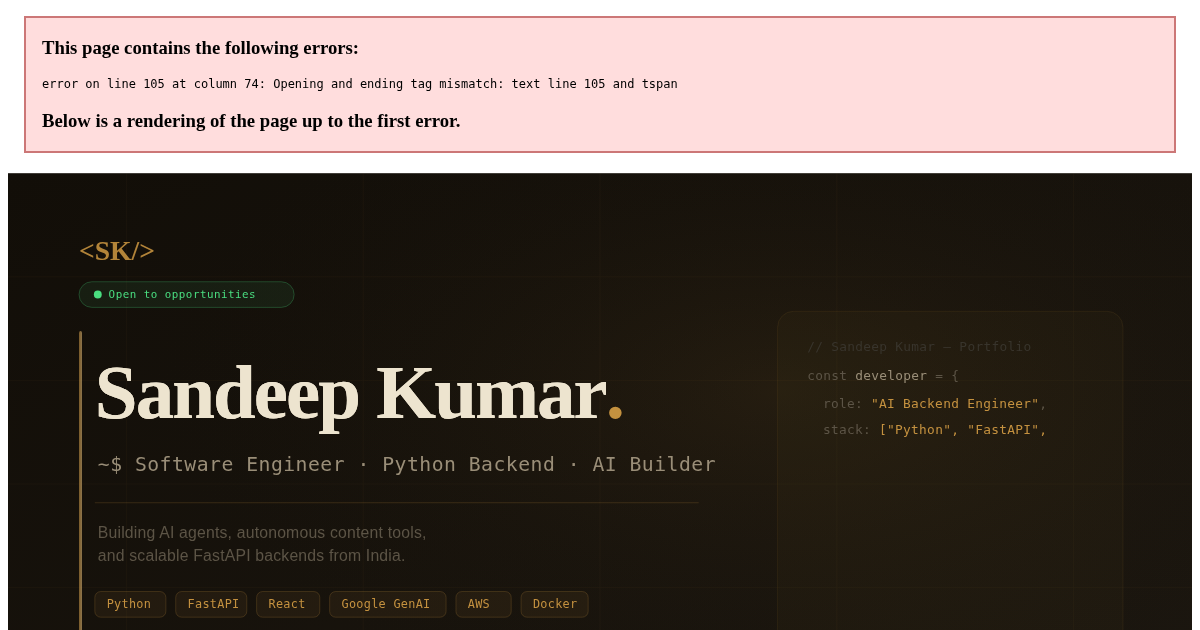
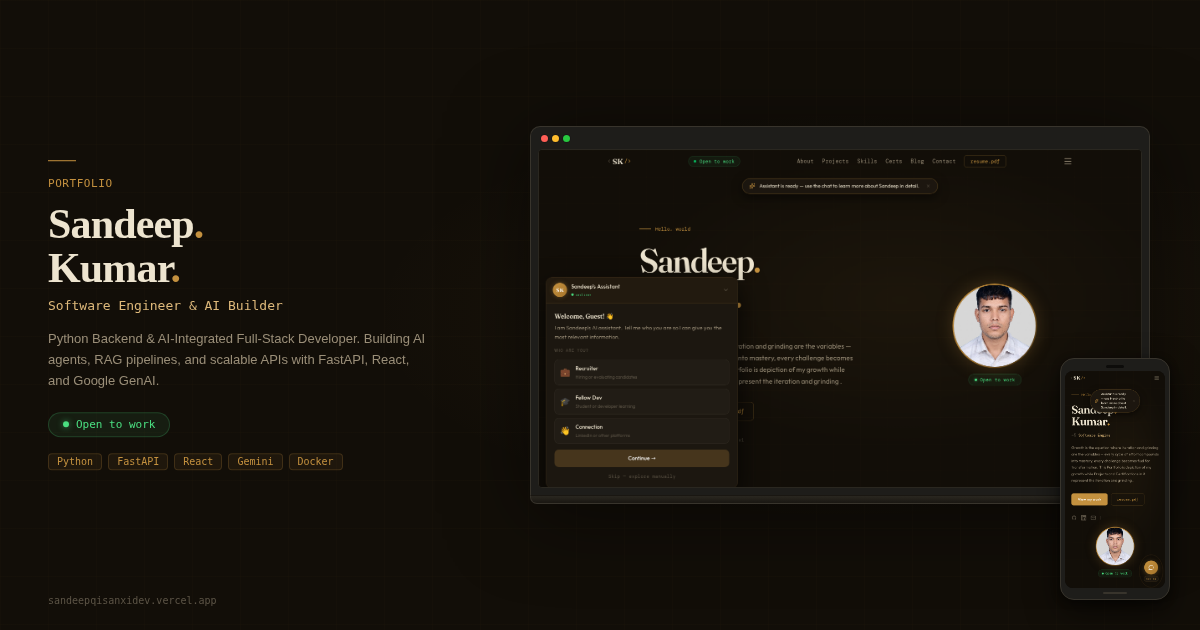
feat: new OG image with desktop + mobile device mockups
Replaced the SVG-based OG image with a composite PNG showing the
portfolio in a macOS laptop frame + iPhone phone frame — similar to
the device mockups used in the Projects section.

The new OG image (1200×630, 153 KB) contains:
  LEFT COLUMN (text):
  - 'PORTFOLIO' label in amber accent
  - 'Sandeep. Kumar.' in Fraunces serif (42px)
  - 'Software Engineer & AI Builder' in DM Mono
  - One-line description about AI-integrated full-stack dev
  - Green 'Open to work' availability badge
  - Tech tag pills: Python · FastAPI · React · Gemini · Docker
  - URL: sandeepqisanxidev.vercel.app

  RIGHT COLUMN (device mockups):
  - macOS laptop frame (traffic lights, bezel, hinge) containing
    a live desktop screenshot of the portfolio at 1440×900
  - iPhone phone frame (notch, home bar) containing a live mobile
    screenshot at 375×812, positioned overlapping the laptop's
    bottom-right corner

Generated via Playwright: captured live screenshots from
sandeepqisanxidev.vercel.app at desktop + mobile viewports, then
composed them into the device frames in a 1200×630 HTML canvas,
then screenshotted that canvas as the final PNG.

Also added og-image.html as the source template for regenerating
the PNG if the portfolio design changes.

Files: 2 changed (og-image.png replaced, og-image.html added).

diff --git a/frontend/public/og-image.html b/frontend/public/og-image.html
@@ -1,0 +1,310 @@
+<!DOCTYPE html>
+<html lang="en">
+<head>
+<meta charset="UTF-8">
+<style>
+  @import url('https://fonts.googleapis.com/css2?family=Fraunces:opsz,wght@9..144,500;9..144,600;9..144,700&family=Outfit:wght@400;500;600&family=DM+Mono:wght@400;500&display=swap');
+
+  * { margin: 0; padding: 0; box-sizing: border-box; }
+
+  body {
+    width: 1200px;
+    height: 630px;
+    overflow: hidden;
+    background: #120E08;
+    font-family: 'Outfit', sans-serif;
+    color: #EDE4CF;
+    position: relative;
+  }
+
+  /* Background glow + grid */
+  .bg-glow {
+    position: absolute;
+    inset: 0;
+    background-image:
+      radial-gradient(ellipse 60% 50% at 70% 50%, rgba(196,145,63,0.08) 0%, transparent 65%),
+      linear-gradient(rgba(196,145,63,0.015) 1px, transparent 1px),
+      linear-gradient(90deg, rgba(196,145,63,0.015) 1px, transparent 1px);
+    background-size: auto, 48px 48px, 48px 48px;
+    pointer-events: none;
+  }
+
+  /* Left text column */
+  .text-col {
+    position: absolute;
+    left: 48px;
+    top: 50%;
+    transform: translateY(-50%);
+    width: 380px;
+    z-index: 10;
+  }
+
+  .accent-line {
+    width: 28px;
+    height: 1px;
+    background: #C4913F;
+    margin-bottom: 16px;
+  }
+
+  .label {
+    font-family: 'DM Mono', monospace;
+    font-size: 11px;
+    color: #C4913F;
+    margin-bottom: 12px;
+    letter-spacing: 0.05em;
+  }
+
+  .name {
+    font-family: 'Fraunces', serif;
+    font-size: 42px;
+    font-weight: 600;
+    color: #EDE4CF;
+    line-height: 1.05;
+    letter-spacing: -0.02em;
+    margin-bottom: 8px;
+  }
+
+  .name span { color: #C4913F; }
+
+  .role {
+    font-family: 'DM Mono', monospace;
+    font-size: 13px;
+    color: #DDB87A;
+    margin-bottom: 16px;
+  }
+
+  .desc {
+    font-size: 13px;
+    color: #9A8E78;
+    line-height: 1.6;
+    margin-bottom: 20px;
+  }
+
+  .availability {
+    display: inline-flex;
+    align-items: center;
+    gap: 7px;
+    padding: 5px 14px;
+    border-radius: 20px;
+    background: rgba(74,222,128,0.08);
+    border: 1px solid rgba(74,222,128,0.2);
+  }
+
+  .availability .dot {
+    width: 6px;
+    height: 6px;
+    border-radius: 50%;
+    background: #4ade80;
+    box-shadow: 0 0 6px rgba(74,222,128,0.6);
+  }
+
+  .availability .text {
+    font-family: 'DM Mono', monospace;
+    font-size: 11px;
+    color: #4ade80;
+  }
+
+  .tech-tags {
+    display: flex;
+    flex-wrap: wrap;
+    gap: 6px;
+    margin-top: 16px;
+  }
+
+  .tag {
+    font-family: 'DM Mono', monospace;
+    font-size: 10px;
+    color: #C4913F;
+    background: rgba(196,145,63,0.08);
+    border: 1px solid rgba(196,145,63,0.2);
+    border-radius: 4px;
+    padding: 2px 8px;
+  }
+
+  .url {
+    position: absolute;
+    bottom: 24px;
+    left: 48px;
+    font-family: 'DM Mono', monospace;
+    font-size: 10px;
+    color: #5C5446;
+  }
+
+  /* Right device mockup area */
+  .devices {
+    position: absolute;
+    right: 0;
+    top: 0;
+    width: 720px;
+    height: 630px;
+    display: flex;
+    align-items: center;
+    justify-content: center;
+  }
+
+  /* Laptop frame */
+  .laptop {
+    width: 620px;
+    position: relative;
+    z-index: 5;
+    filter: drop-shadow(0 10px 40px rgba(0,0,0,0.5));
+  }
+
+  .laptop-screen-body {
+    background: #1E1D1A;
+    border-radius: 10px 10px 0 0;
+    padding: 22px 7px 7px;
+    border: 1.5px solid #38342C;
+    border-bottom: none;
+    position: relative;
+  }
+
+  .traffic-lights {
+    position: absolute;
+    top: 8px;
+    left: 10px;
+    display: flex;
+    gap: 4px;
+  }
+
+  .traffic-lights div {
+    width: 7px;
+    height: 7px;
+    border-radius: 50%;
+    box-shadow: 0 0 0 0.5px rgba(0,0,0,0.3);
+  }
+
+  .traffic-lights .red { background: #FF5F57; }
+  .traffic-lights .yellow { background: #FFBD2E; }
+  .traffic-lights .green { background: #28C840; }
+
+  .laptop-screen {
+    background: #0D0C0A;
+    border-radius: 4px;
+    overflow: hidden;
+    border: 1px solid #2A2720;
+    aspect-ratio: 16/9;
+  }
+
+  .laptop-screen img {
+    width: 100%;
+    height: 100%;
+    object-fit: cover;
+    object-position: top;
+  }
+
+  .laptop-base {
+    height: 9px;
+    background: linear-gradient(180deg, #2A2720 0%, #1A1712 100%);
+    border-radius: 0 0 7px 7px;
+    border: 1.5px solid #38342C;
+    border-top: 1px solid #1A1712;
+  }
+
+  /* Phone frame */
+  .phone {
+    position: absolute;
+    right: 30px;
+    bottom: 30px;
+    width: 110px;
+    background: #1E1D1A;
+    border-radius: 14px;
+    padding: 12px 4px 5px;
+    border: 1.5px solid #38342C;
+    box-shadow: 0 12px 32px rgba(0,0,0,0.55), 0 2px 8px rgba(0,0,0,0.4);
+    z-index: 10;
+  }
+
+  .phone-notch {
+    position: absolute;
+    top: 6px;
+    left: 50%;
+    transform: translateX(-50%);
+    width: 18px;
+    height: 3px;
+    border-radius: 2px;
+    background: #0D0C0A;
+  }
+
+  .phone-screen {
+    background: #0D0C0A;
+    border-radius: 8px;
+    overflow: hidden;
+    aspect-ratio: 9/19.5;
+  }
+
+  .phone-screen img {
+    width: 100%;
+    height: 100%;
+    object-fit: cover;
+    object-position: top;
+  }
+
+  .phone-home-bar {
+    width: 24px;
+    height: 2px;
+    background: #38342C;
+    border-radius: 2px;
+    margin: 4px auto 0;
+  }
+</style>
+</head>
+<body>
+
+  <div class="bg-glow"></div>
+
+  <!-- Left text column -->
+  <div class="text-col">
+    <div class="accent-line"></div>
+    <div class="label">PORTFOLIO</div>
+    <div class="name">Sandeep<span>.</span><br>Kumar<span>.</span></div>
+    <div class="role">Software Engineer &amp; AI Builder</div>
+    <div class="desc">
+      Python Backend &amp; AI-Integrated Full-Stack Developer.
+      Building AI agents, RAG pipelines, and scalable APIs
+      with FastAPI, React, and Google GenAI.
+    </div>
+    <div class="availability">
+      <span class="dot"></span>
+      <span class="text">Open to work</span>
+    </div>
+    <div class="tech-tags">
+      <span class="tag">Python</span>
+      <span class="tag">FastAPI</span>
+      <span class="tag">React</span>
+      <span class="tag">Gemini</span>
+      <span class="tag">Docker</span>
+    </div>
+  </div>
+
+  <div class="url">sandeepqisanxidev.vercel.app</div>
+
+  <!-- Right device mockups -->
+  <div class="devices">
+    <!-- Laptop with desktop screenshot -->
+    <div class="laptop">
+      <div class="laptop-screen-body">
+        <div class="traffic-lights">
+          <div class="red"></div>
+          <div class="yellow"></div>
+          <div class="green"></div>
+        </div>
+        <div class="laptop-screen">
+          <img src="screenshots/desktop_full.png" alt="Portfolio on desktop" />
+        </div>
+      </div>
+      <div class="laptop-base"></div>
+    </div>
+
+    <!-- Phone with mobile screenshot -->
+    <div class="phone">
+      <div class="phone-notch"></div>
+      <div class="phone-screen">
+        <img src="screenshots/mobile_full.png" alt="Portfolio on mobile" />
+      </div>
+      <div class="phone-home-bar"></div>
+    </div>
+  </div>
+
+</body>
+</html>
